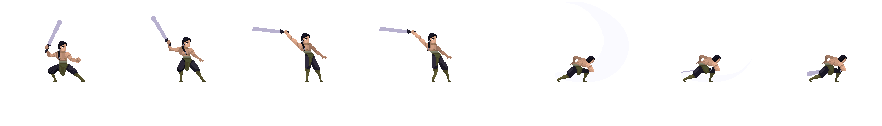
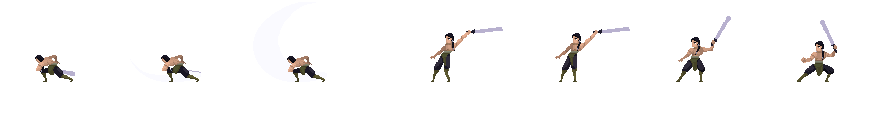
enemy done

diff --git a/game.js b/game.js
@@ -53,7 +53,7 @@ velocity:{
     scale : 4.5,
     framesMax : 8,
     offset:{
-    x: 450,
+    x: 540,
     y:450
     },
     sprites : {
@@ -82,7 +82,7 @@ velocity:{
 
 const enemy = new Fighter({
 position: {
-    x:975,
+    x:1050,
     y:100
 },
 velocity:{
@@ -99,7 +99,7 @@ velocity:{
     framesMax : 10,
     offset:{
     x: 450,
-    y:450
+    y:250
     },
     sprites : {
     idle : {
@@ -179,8 +179,18 @@ function animate() {
 
     if (keys.ArrowLeft.pressed && enemy.lastKey === 'ArrowLeft'){
         enemy.velocity.x = -5
+        enemy.switchSprite('run')
     } else if (keys.ArrowRight.pressed && enemy.lastKey === 'ArrowRight'){
         enemy.velocity.x = 5
+        enemy.switchSprite('run')
+    } else {
+        enemy.switchSprite('idle')
+    }
+
+    if (enemy.velocity.y < 0){
+        enemy.switchSprite('jump')
+    }else if (enemy.velocity.y > 0){
+        enemy.switchSprite('fall')
     }
 
     if (
@@ -241,7 +251,7 @@ window.addEventListener('keydown', (event) => {
             enemy.velocity.y = -15
             break
         case 'ArrowDown':
-            enemy.isAttacking = true
+            enemy.attack()
             break
     }
 })
